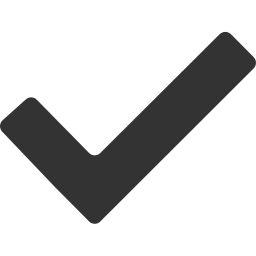
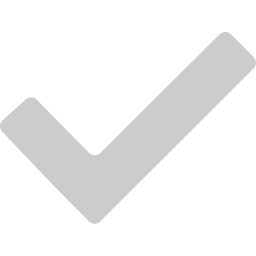
Corrected images

Changed region(s): [[0.0, 0.125, 1.0, 0.875]]

diff --git a/www/css/dashboard.css b/www/css/dashboard.css
@@ -12,13 +12,13 @@
 	content: " ";
 	position: absolute;
 	top: 5px;
-	bottom: 5px;
-	left: 5px;
+	bottom: 0px;
+	left: 0px;
 	right: 5px;
 	background-repeat: no-repeat;
-	background-size: contain;
-	background-position: center center;
-	opacity: 0.5;
+	background-size: 48px;
+	background-position: 100% 0%;
+	opacity: 0.1;
 }
 
 .img-document:before {
@@ -56,6 +56,11 @@
 .img-www:before {
 	background-image: url('/img/world.png');
 }
+
+.img-heart:before {
+	background-image: url('/img/heart.png');
+}
+
 
 .riemann-cell {
 	height: 100%;
@@ -101,7 +106,9 @@
 }
 
 .state-expired {
-	background-color: #dedede;
+	background-color: #222;
+	border: 2px solid #444;
+	color: #777;
 }
 
 .sub-name {

diff --git a/www/app/js/controllers.js b/www/app/js/controllers.js
@@ -92,9 +92,9 @@ dashboardApp.controller('RiemannDashboardCtrl', function ($scope) {
 			}
 		},
 		'riak ring': {
-			img: "check",
+			img: "heart",
 			format: state_format,
-			name: "Riak ring status"
+			name: "Riak ring"
 		}
 	};
 	var services = _.map(service_info, function(v, k) {
@@ -204,17 +204,6 @@ dashboardApp.controller('RiemannDashboardCtrl', function ($scope) {
 				showError("Server Send Event error")
 			}
 		}, false);
-		setTimeout(function() {
-			handleCallback({
-				data: JSON.stringify({
-					service: 'cpu',
-					host: 'test',
-					state: 'warning',
-					metric: 1
-				})
-			})
-		}, 100)
-
 	} else {
 	  	showError("SSE not available")
 	}
